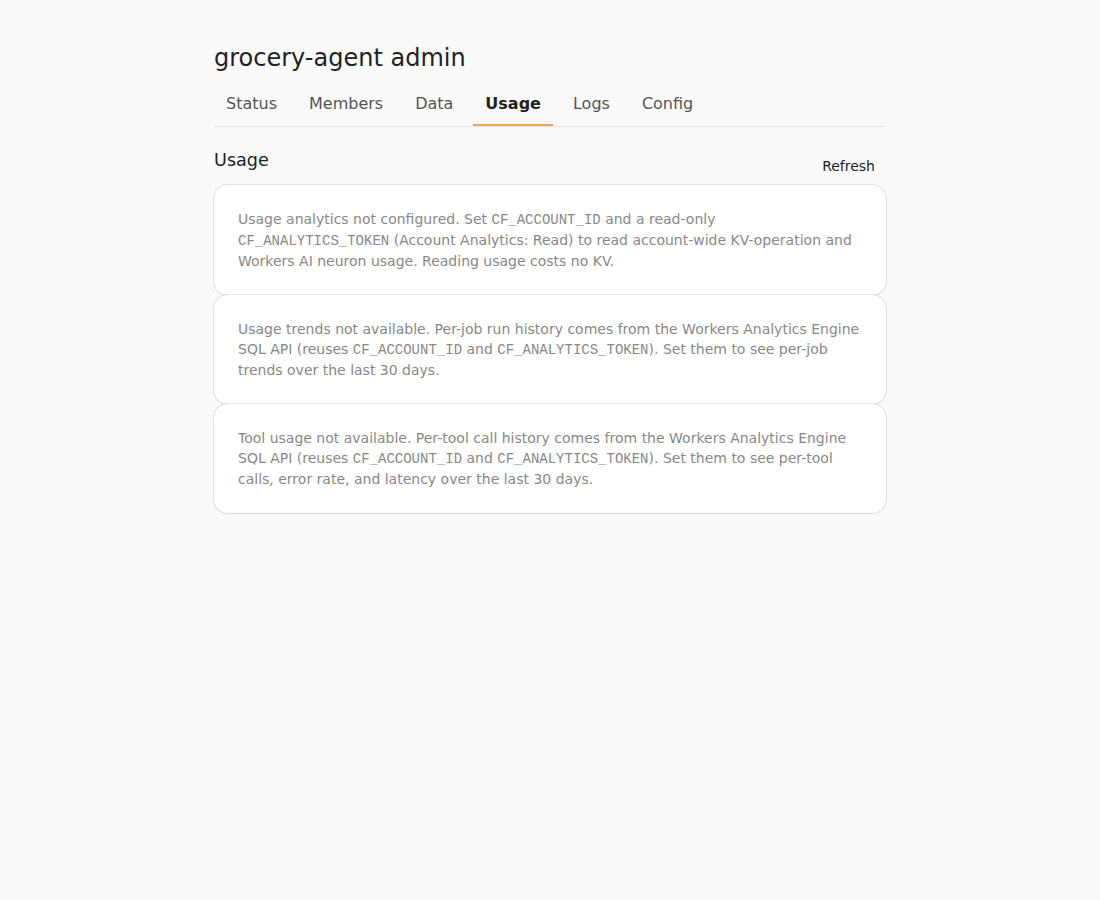
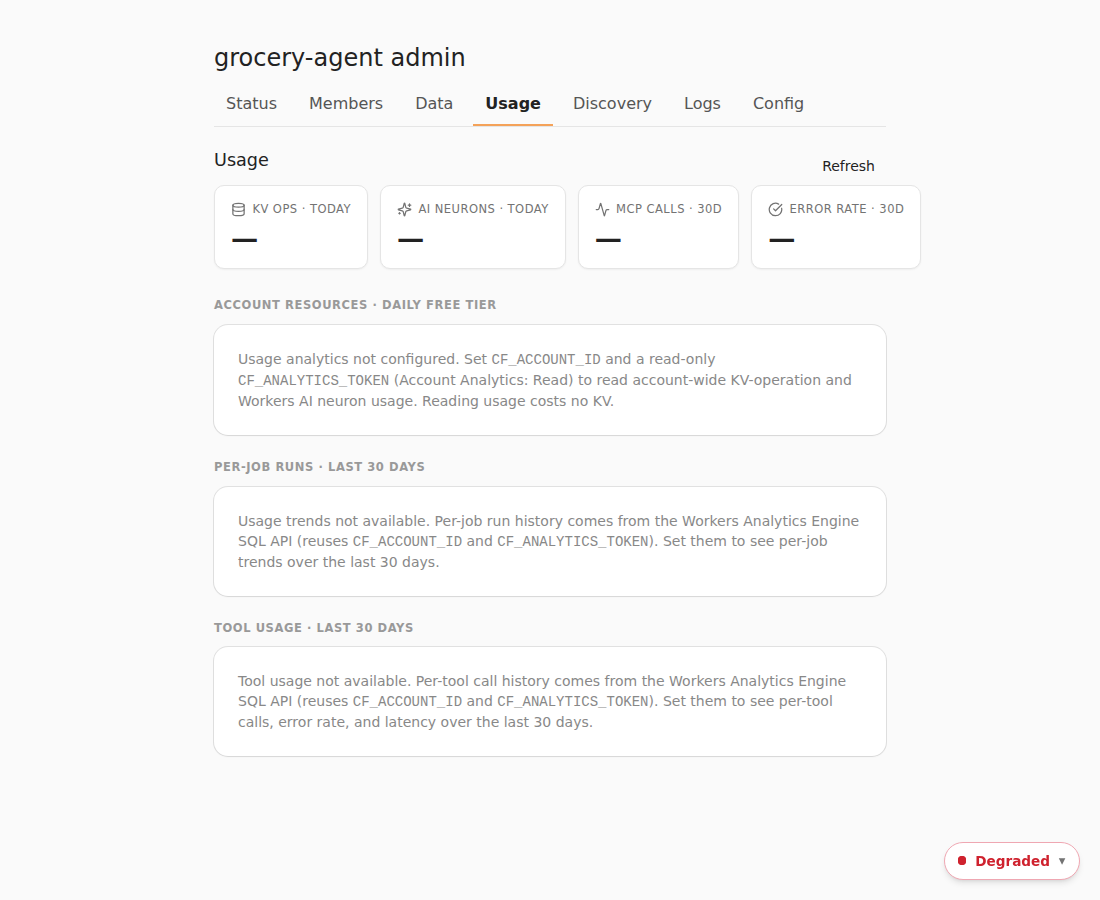
Update admin-visual Playwright suite + baselines for the redesigned panel
Claude-Session: https://claude.ai/code/session_013KrUAyzkxuCQoLHgMDPegy

diff --git a/admin/visual/admin.spec.ts b/admin/visual/admin.spec.ts
@@ -1,31 +1,39 @@
-// Admin panel visual + smoke spec (operator-admin, Phase 8). For each area: a functional
-// assertion (the area's heading is visible — stable across browser versions) plus a full-page
-// screenshot (`toHaveScreenshot` compares against the committed baseline; `screenshot: "on"`
-// also captures it as a CI artifact regardless). Plus the Logs detail opening as a native
-// <dialog>. The vitest suite is the functional gate; this is the browser-level visual aid.
-import { test, expect } from "@playwright/test";
+// Admin panel visual + smoke spec (operator-admin, redesigned 8-area panel). For each top-level
+// area: a functional assertion (the shared `<h1>grocery-agent admin</h1>` shell heading plus an
+// area-specific landmark is visible — stable across browser versions) plus a full-page screenshot
+// (`toHaveScreenshot` compares against the committed baseline; `screenshot: "on"` also captures
+// it as a CI artifact regardless). Plus the Members invite dialog opening as a native <dialog>
+// (the panel's remaining native-dialog surface — the old Logs detail dialog was retired when
+// Logs became an all-jobs run log using inline <details>/<summary> disclosure, zero client JS).
+// The vitest suite is the functional gate; this is the browser-level visual aid.
+import { test, expect, type Page } from "@playwright/test";
 
-const AREAS: ReadonlyArray<readonly [name: string, path: string, heading: string]> = [
-  ["status", "/admin", "Service health"],
-  ["members", "/admin/members", "Members"],
-  ["data", "/admin/data", "Recipes"],
-  ["usage", "/admin/usage", "Usage"],
-  ["logs", "/admin/logs/discovery", "Discovery"],
-  ["config", "/admin/config", "Discovery calibration"],
+// Most areas render their own `<h2>`/`<h3>` heading (Members doesn't — its page has only the
+// shared shell `<h1>` plus stat tiles and a roster, so it's asserted via the "Invite member"
+// button instead, a control unique to that area).
+const AREAS: ReadonlyArray<readonly [name: string, path: string, assert: (page: Page) => Promise<unknown>]> = [
+  ["status", "/admin", (page) => expect(page.getByRole("heading", { name: "Service health" })).toBeVisible()],
+  ["members", "/admin/members", (page) => expect(page.getByRole("button", { name: "Invite member" })).toBeVisible()],
+  ["data", "/admin/data", (page) => expect(page.getByRole("heading", { name: "Recipes" })).toBeVisible()],
+  ["usage", "/admin/usage", (page) => expect(page.getByRole("heading", { name: "Usage" })).toBeVisible()],
+  ["discovery", "/admin/discovery", (page) => expect(page.getByRole("heading", { name: "Discovery" })).toBeVisible()],
+  ["logs", "/admin/logs", (page) => expect(page.getByRole("heading", { name: "Logs" })).toBeVisible()],
+  ["config", "/admin/config", (page) => expect(page.getByRole("heading", { name: "Calibration" })).toBeVisible()],
 ];
 
-for (const [name, path, heading] of AREAS) {
+for (const [name, path, assertArea] of AREAS) {
   test(`${name} area renders`, async ({ page }) => {
     await page.goto(path);
-    await expect(page.getByRole("heading", { name: heading })).toBeVisible();
+    await expect(page.getByRole("heading", { name: "grocery-agent admin" })).toBeVisible();
+    await assertArea(page);
     await expect(page).toHaveScreenshot(`${name}.png`, { fullPage: true });
   });
 }
 
-test("logs detail opens as a native dialog", async ({ page }) => {
-  await page.goto("/admin/logs/discovery");
-  await page.locator(".entry-row.has-detail").first().click();
+test("members invite opens as a native dialog", async ({ page }) => {
+  await page.goto("/admin/members");
+  await page.getByRole("button", { name: "Invite member" }).click();
   // The native <dialog> opened (robust check; its element box can read oddly to visibility heuristics).
   await expect(page.locator("dialog.dialog")).toHaveJSProperty("open", true);
-  await expect(page).toHaveScreenshot("logs-dialog.png");
+  await expect(page).toHaveScreenshot("members-dialog.png");
 });